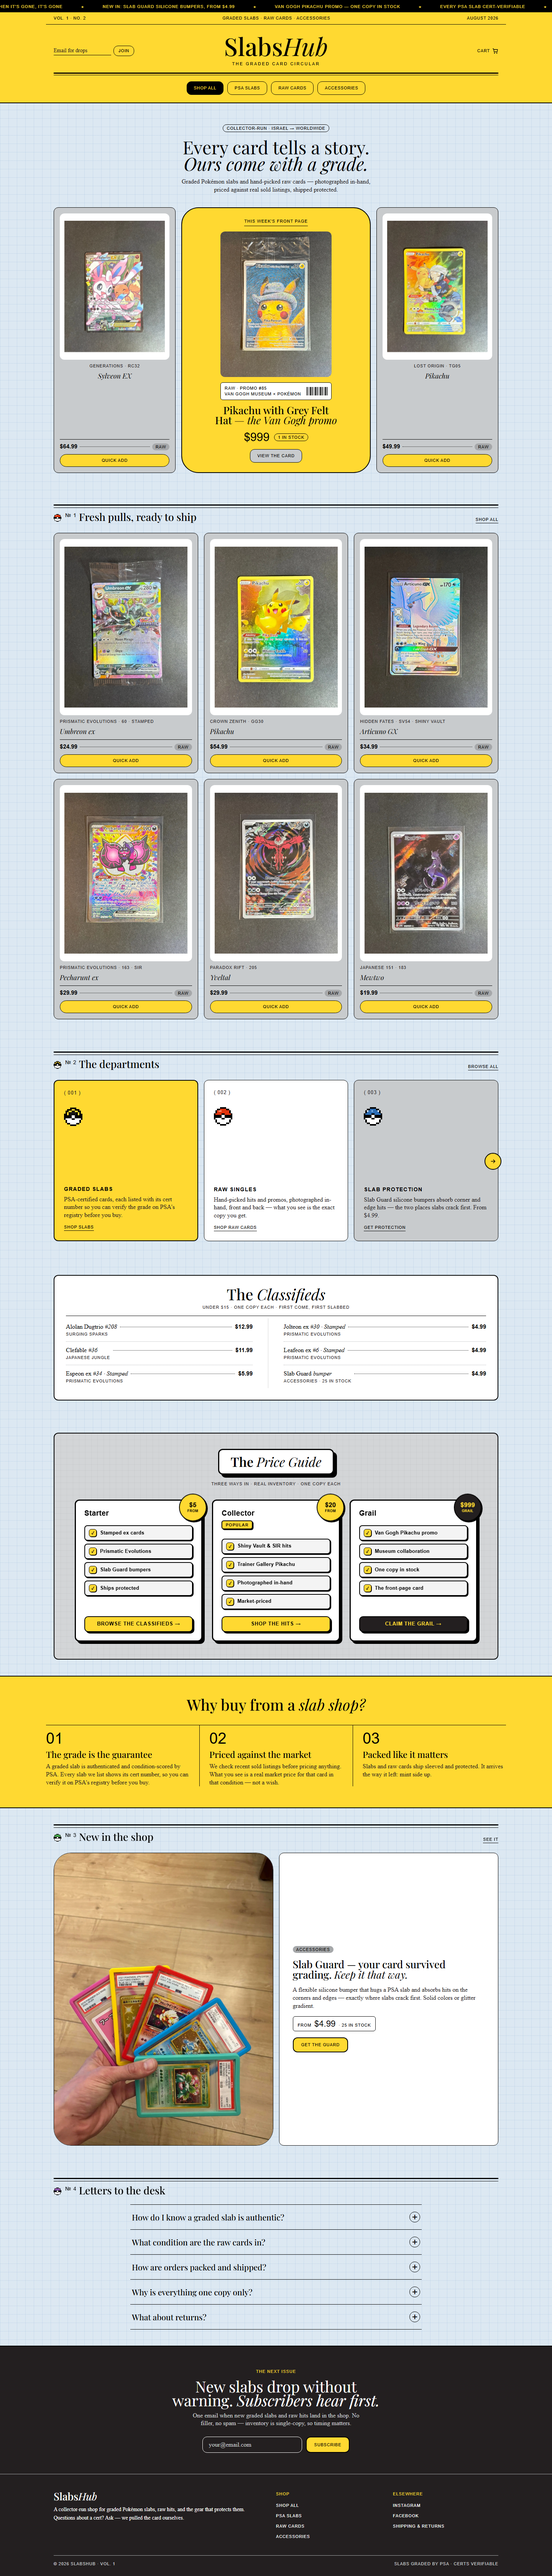
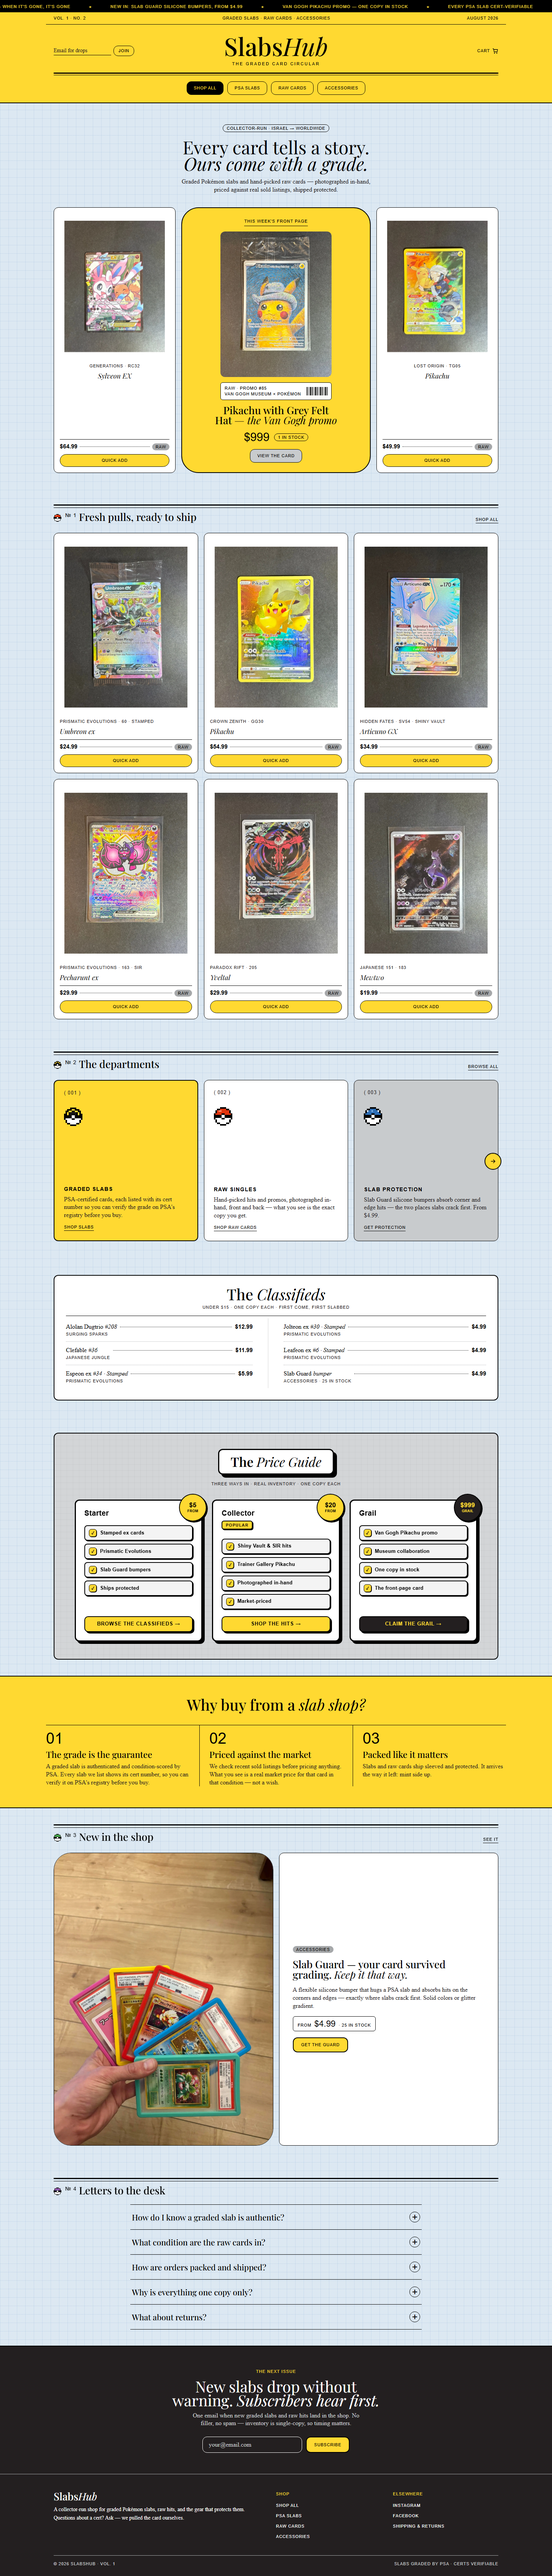
Comics v1.3.1: product cards white (pearl gray dropped), pale-yellow hover tint

Changed region(s): [[0.0938, 0.0623, 0.9062, 0.4049]]

diff --git a/design/2026-08-05-lepuzz-redesign/slabshub-lepuzz-home.html b/design/2026-08-05-lepuzz-redesign/slabshub-lepuzz-home.html
@@ -428,7 +428,7 @@
 
   /* ---------- Product cards ---------- */
   .card {
-    background: var(--color-pearl-gray);
+    background: #ffffff;
     border: 1px solid var(--color-carbon-black);
     border-radius: var(--radius-card);
     padding: var(--card-padding);
@@ -437,7 +437,7 @@
     gap: 10px;
     transition: background 0.2s ease;
   }
-  .card:hover { background: #d3d6d8; }
+  .card:hover { background: #fffbe8; }
   .card .img-box {
     background: #ffffff;
     border-radius: var(--radius-card);
